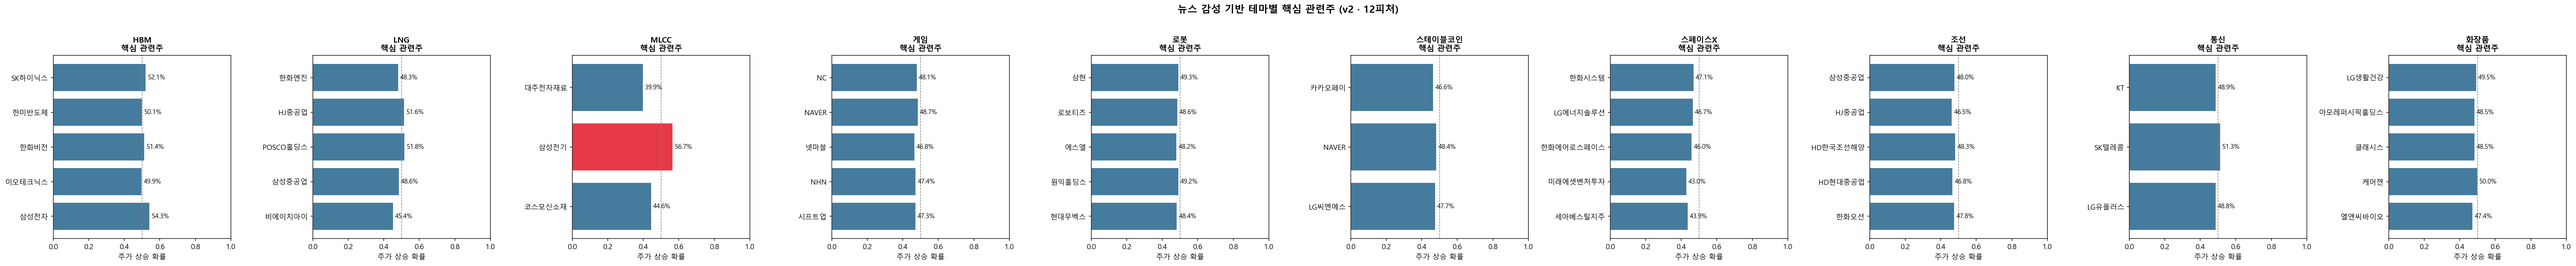
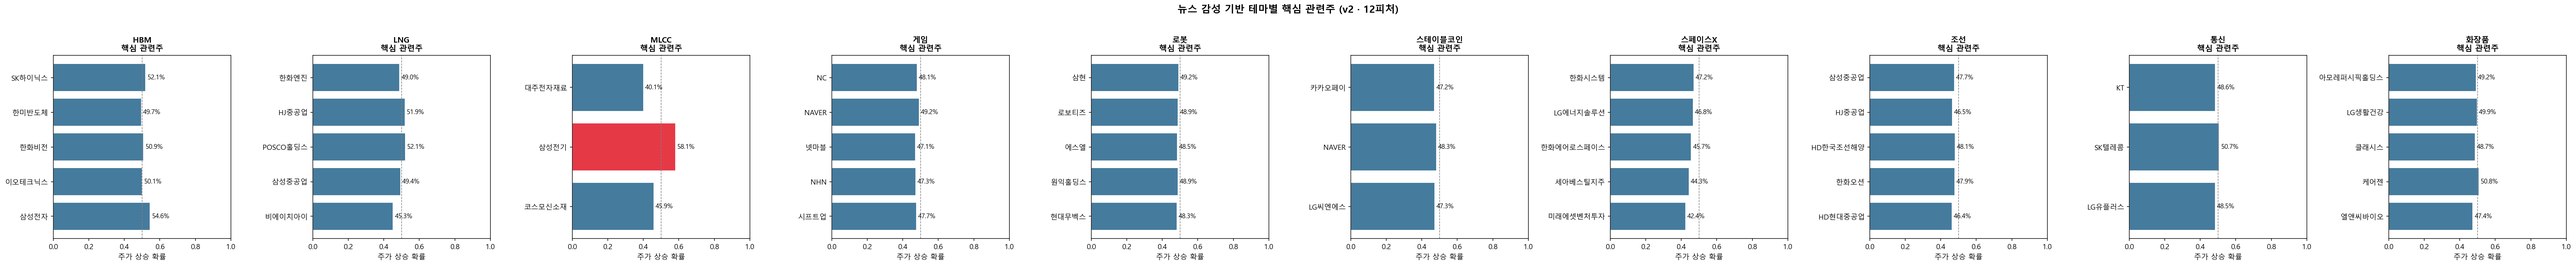
feat: 월별 TOP5 빈 자리 채우기 로직 추가 + 결과 전체 갱신
제외 테마(SI/은행/두나무 등) 제거 후 텔레그램 6~10위로 자동 보완
12개월 전 월 5위까지 완성. AUC 0.5923

diff --git a/rerun_v2.py b/rerun_v2.py
@@ -687,11 +687,17 @@ merged = merged[merged['date'] < '2026-06-01']
 sentiment_df = sentiment_df[sentiment_df['date'] < '2026-06-01']
 valid_months = [m for m in monthly_tops_final.keys() if m != '2026-06']
 
-# monthly_tops_final 필터링
+# monthly_tops_final 필터링 + 빈 자리 채우기 (제외 테마 자리를 텔레그램 6~10위로 보완)
 monthly_tops_filtered = {}
 for m, tops in monthly_tops_final.items():
     if m == '2026-06': continue
     filtered_tops = [t for t in tops if t in valid_themes]
+    if len(filtered_tops) < TOP_N and m in monthly_tops_str:
+        for t in monthly_tops_str[m]:
+            if t in valid_themes and t not in filtered_tops:
+                filtered_tops.append(t)
+            if len(filtered_tops) >= TOP_N:
+                break
     if filtered_tops:
         monthly_tops_filtered[m] = filtered_tops
 
